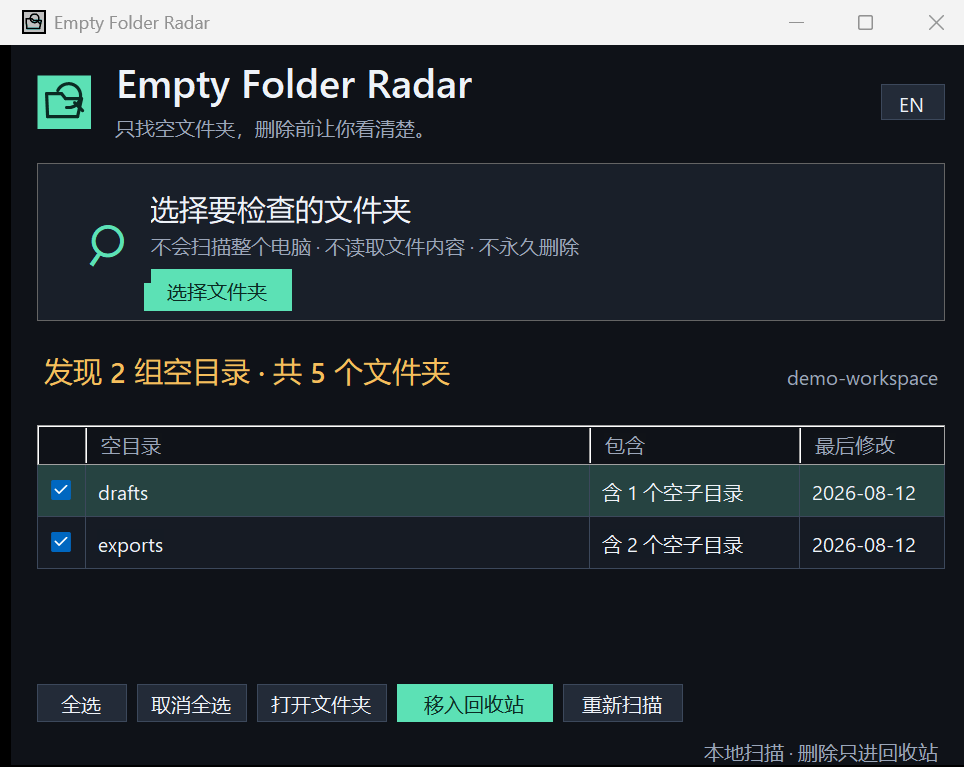
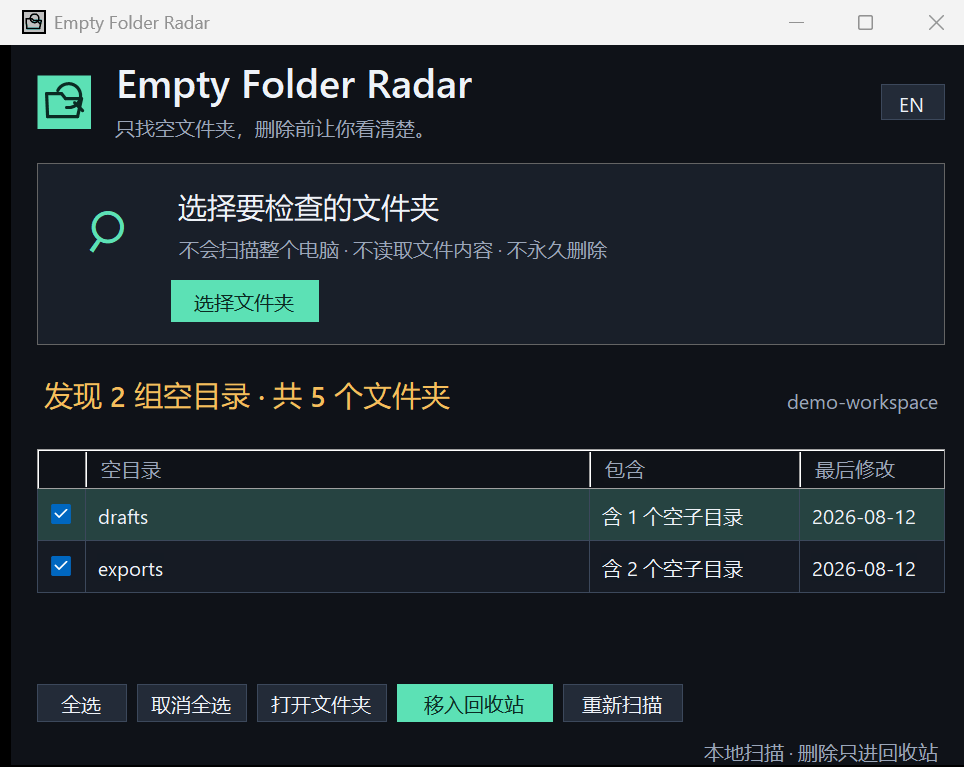
Fix picker layout at high DPI

Changed region(s): [[0.0311, 0.4498, 0.9959, 0.7497], [0.0934, 0.2399, 0.6224, 0.4198]]

diff --git a/src/MainForm.cs b/src/MainForm.cs
@@ -79,7 +79,7 @@ namespace ConfigCrate.EmptyFolderRadar
                 localeButton.Location = new Point(header.ClientSize.Width - localeButton.Width - 26, (header.Height - localeButton.Height) / 2);
             };
 
-            Panel pickerHost = new Panel { Dock = DockStyle.Top, Height = 178, BackColor = Bg, Padding = new Padding(26, 4, 26, 16) };
+            Panel pickerHost = new Panel { Dock = DockStyle.Top, Height = 204, BackColor = Bg, Padding = new Padding(26, 4, 26, 16) };
             Panel picker = new Panel { Dock = DockStyle.Fill, BackColor = Surface, BorderStyle = BorderStyle.FixedSingle, AllowDrop = true, Cursor = Cursors.Hand };
             Label icon = new Label { Text = "⌕", ForeColor = Mint, Font = new Font("Segoe UI Symbol", 30F), AutoSize = true, Location = new Point(32, 38), Cursor = Cursors.Hand };
             chooseTitle = new Label { ForeColor = Main, Font = new Font("Segoe UI Semibold", 14F, FontStyle.Bold), AutoSize = true, Location = new Point(105, 26), Cursor = Cursors.Hand };
@@ -88,6 +88,18 @@ namespace ConfigCrate.EmptyFolderRadar
             foreach (Control c in new Control[] { picker, icon, chooseTitle, chooseHint }) c.Click += delegate { ChooseFolder(); };
             picker.DragEnter += DragEntered; picker.DragDrop += Dropped;
             picker.Controls.Add(icon); picker.Controls.Add(chooseTitle); picker.Controls.Add(chooseHint); picker.Controls.Add(chooseButton); pickerHost.Controls.Add(picker);
+            picker.Layout += delegate
+            {
+                int contentLeft = icon.Right + 20;
+                chooseTitle.Location = new Point(contentLeft, 24);
+                chooseHint.Location = new Point(contentLeft + 3, chooseTitle.Bottom + 8);
+                chooseButton.Location = new Point(contentLeft, chooseHint.Bottom + 18);
+                icon.Top = Math.Max(24, chooseTitle.Top + (chooseTitle.Height - icon.Height) / 2);
+                int pickerBottomPadding = 24;
+                int desiredPickerHeight = chooseButton.Bottom + pickerBottomPadding;
+                int desiredHostHeight = desiredPickerHeight + pickerHost.Padding.Top + pickerHost.Padding.Bottom;
+                if (pickerHost.Height != desiredHostHeight) pickerHost.Height = desiredHostHeight;
+            };
 
             Panel summary = new Panel { Dock = DockStyle.Top, Height = 88, BackColor = Bg };
             resultTitle = new Label { ForeColor = Main, Font = new Font("Segoe UI Semibold", 14F, FontStyle.Bold), AutoSize = true, Location = new Point(26, 15) };

diff --git a/RELEASE_NOTES.md b/RELEASE_NOTES.md
@@ -1,18 +1,20 @@
-# Empty Folder Radar v0.1.0
+# Empty Folder Radar v0.1.1
 
-The first public release of a focused Windows empty-folder inspector.
+This maintenance release fixes the folder-picker layout at larger Windows display scaling.
+
+## Fixed
+
+- The picker title, hint, and button now follow each other's measured rendered height.
+- The button keeps clear space above it and below it instead of using a fixed Y coordinate.
+- The picker panel grows automatically at 125%, 150%, and higher display scaling.
+- The magnifying-glass icon remains aligned with the picker heading.
 
 ## Included
 
-- Select or drag in one folder.
-- Find directly empty folders and recursively empty folder trees.
-- Collapse an empty tree into a single review row.
-- Select all, select none, open a result, and rescan.
-- Send selected branches to the Windows Recycle Bin.
-- Protect drive roots, Windows, Program Files, the whole user profile, and the selected root.
-- Skip links, junctions, and inaccessible directories.
-- Chinese/English interface with automatic detection and manual switching.
-- Portable Windows executable with no installation, admin access, networking, or telemetry.
+- Empty leaves and recursively empty folder-tree detection.
+- Safe branch collapsing, review checkboxes, and Recycle Bin cleanup.
+- Protected roots, junction skipping, and immediate pre-delete revalidation.
+- Chinese and English interface.
 
 ## Requirements
 

diff --git a/README.md b/README.md
@@ -21,7 +21,7 @@ Empty Folder Radar extracts one focused job from large disk-cleanup suites: find
 
 ## Use
 
-1. Download and extract the latest Windows ZIP from [Releases](https://github.com/configcrate/empty-folder-radar/releases/latest).
+1. Download and extract the latest Windows ZIP from [Releases](https://github.com/configcrate/empty-folder-radar/releases/latest). Version 0.1.1 includes the high-DPI picker-layout fix.
 2. Run `empty-folder-radar.exe`.
 3. Select or drag in a folder.
 4. Review the empty branches and uncheck anything you want to keep.
